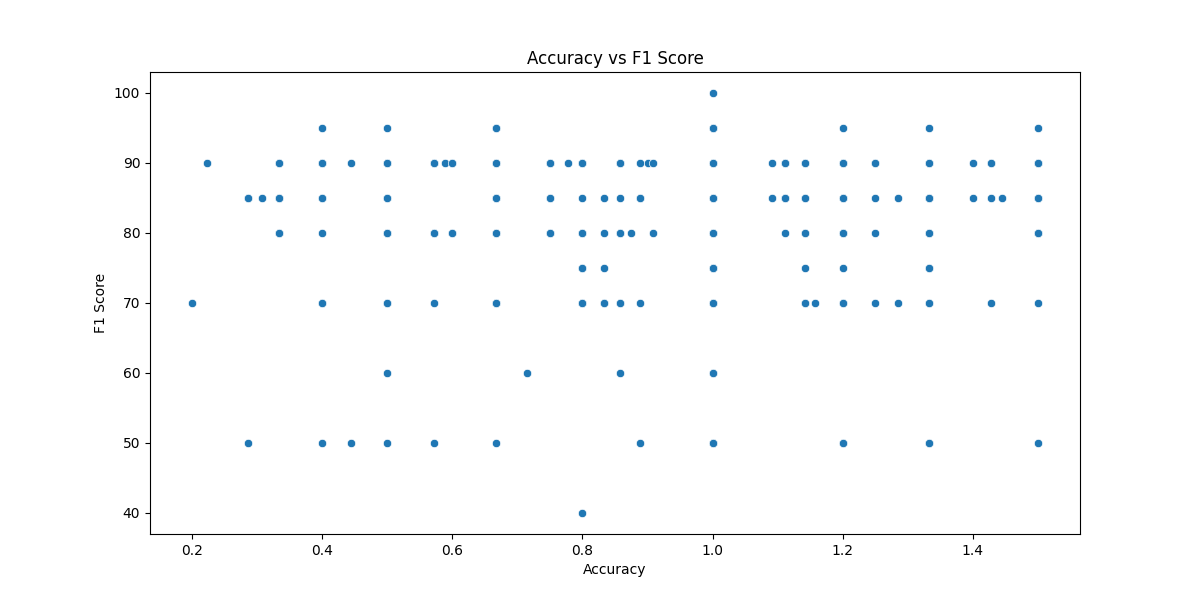
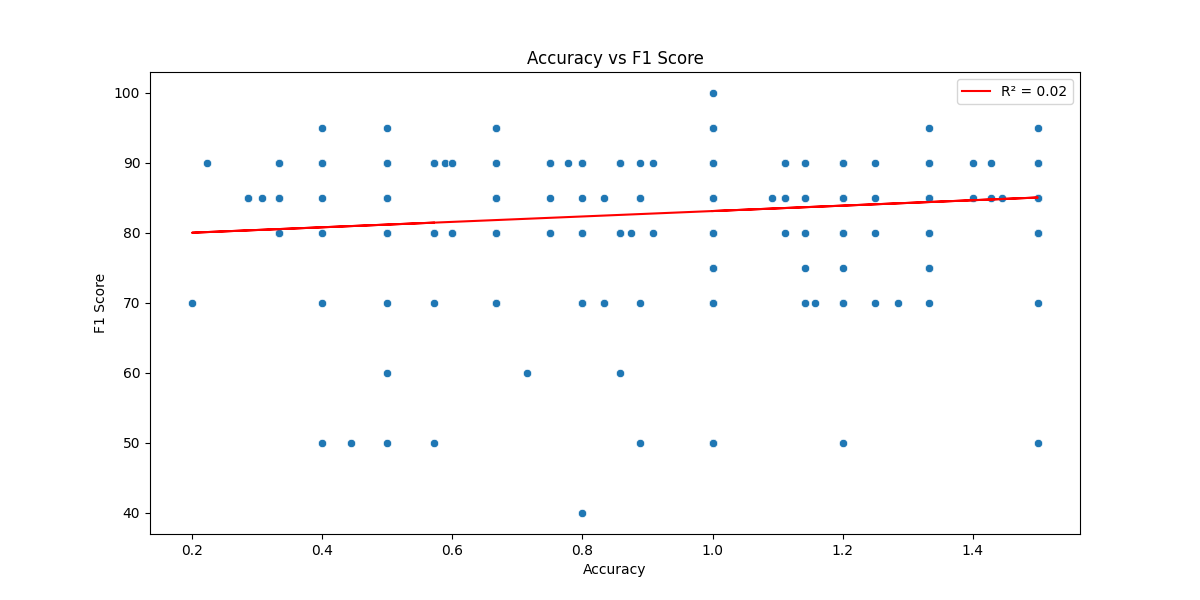
asqa gpt metrics

Changed region(s): [[0.4933, 0.33, 0.8633, 0.36], [0.1542, 0.36, 0.4933, 0.39], [0.8017, 0.12, 0.8942, 0.18]]

diff --git a/metrics.py b/metrics.py
@@ -56,54 +56,52 @@ class Metrics:
         if not self.data:
             raise ValueError("Data not loaded or metrics not calculated. Please load data and calculate metrics first.")
 
-        df = pd.DataFrame(self.data)
+        # Prepare the dataframe, filtering out unnecessary data
+        df = pd.DataFrame(self.data).dropna(subset=['f1_score', 'rouge_score', 'correctness', 'average_relevance_score', 'relevance', 'accuracy'])
         df_non_zero_f1 = df[df['f1_score'] > 0]  # Filter out entries with F1 score of 0
 
-        # Define colors for the plots
-        color_palette = sns.color_palette("husl", 5)
+        # Check if there's any data left after filtering
+        if df_non_zero_f1.empty:
+            print("No valid data available for plotting.")
+            return
 
-        # Function to plot regression line and calculate R^2
-        def plot_regression(x, y, data, ax):
-            model = LinearRegression().fit(data[[x]], data[y])
-            predictions = model.predict(data[[x]])
-            ax.plot(data[x], predictions, color='red', label=f'R² = {r2_score(data[y], predictions):.2f}')
-            ax.legend()
+        # Generate and save each plot
+        self.create_plot('rouge_score', 'correctness', df_non_zero_f1, 'Rouge Score vs Correctness Score', 'Rouge Score', 'Correctness Confidence', 'rouge_correct.png')
+        self.create_plot('average_relevance_score', 'relevance', df_non_zero_f1, 'Average Relevance Score vs Relevance', 'Average Given Relevance Score', 'Relevance Confidence', 'relevance.png')
+        self.create_plot('f1_score', 'accuracy', df_non_zero_f1, 'Accuracy vs F1 Score', 'Accuracy', 'F1 Score', 'f1_accuracy.png')
 
-        # Rouge Score vs Correctness Score
+
+    # Define a function to plot regression line and calculate R^2
+    def plot_regression(self, x, y, data, ax):
+        if data.empty or len(data[x].dropna()) == 0 or len(data[y].dropna()) == 0:
+            print("Data for regression is empty or NaN.")
+            return  # Exit if there is no data to plot
+
+        # Prepare data: remove any NaN values that may interfere with regression calculation
+        data = data.dropna(subset=[x, y])
+        
+        model = LinearRegression()
+        X = data[[x]]  # Feature matrix
+        y_true = data[y]  # Target vector
+        model.fit(X, y_true)
+        predictions = model.predict(X)
+        
+        # Plotting the regression line
+        ax.plot(data[x], predictions, color='red', label=f'R² = {r2_score(y_true, predictions):.2f}')
+        ax.legend()
+
+    def create_plot(self, x, y, data, title, xlabel, ylabel, filename):
         fig, ax = plt.subplots(figsize=(12, 6))
-        sns.scatterplot(x='rouge_score', y='correctness', data=df_non_zero_f1, ax=ax, palette=color_palette)
-        plot_regression('rouge_score', 'correctness', df_non_zero_f1, ax)
-        ax.set_title('Rouge Score vs Correctness Score')
-        ax.set_xlabel('Rouge Score')
-        ax.set_ylabel('Correctness Confidence')
-        ax.set_xlim(left=0)
-        ax.set_ylim(bottom=0)
-        plt.savefig(os.path.join(self.output_dir, 'rouge_correct.png'))
+        sns.scatterplot(x=x, y=y, data=data, ax=ax)
+        self.plot_regression(x, y, data, ax)  # This calls the regression line plotting
+        ax.set_title(title)
+        ax.set_xlabel(xlabel)
+        ax.set_ylabel(ylabel)
+        # ax.set_xlim(left=0)  # Comment out or remove this line
+        # ax.set_ylim(bottom=0)  # Comment out or remove this line
+        plt.savefig(os.path.join(self.output_dir, filename))
         plt.show()
 
-        # Average Relevance Score vs Relevance
-        fig, ax = plt.subplots(figsize=(12, 6))
-        sns.scatterplot(x='average_relevance_score', y='relevance', data=df_non_zero_f1, ax=ax, palette=color_palette)
-        plot_regression('average_relevance_score', 'relevance', df_non_zero_f1, ax)
-        ax.set_title('Average Relevance Score vs Relevance Confidence')
-        ax.set_xlabel('Average Given Relevance Score')
-        ax.set_ylabel('Relevance Confidence')
-        ax.set_xlim(left=0)
-        ax.set_ylim(bottom=0)
-        plt.savefig(os.path.join(self.output_dir, 'relevance.png'))
-        plt.show()
-
-        # Accuracy vs F1 Score
-        fig, ax = plt.subplots(figsize=(12, 6))
-        sns.scatterplot(x='f1_score', y='accuracy', data=df_non_zero_f1, ax=ax, palette=color_palette)
-        plot_regression('f1_score', 'accuracy', df_non_zero_f1, ax)
-        ax.set_title('Accuracy vs F1 Score')
-        ax.set_xlabel('Accuracy')
-        ax.set_ylabel('F1 Score')
-        ax.set_xlim(left=0)
-        ax.set_ylim(bottom=0)
-        plt.savefig(os.path.join(self.output_dir, 'f1_accuracy.png'))
-        plt.show()
 
 
 def main():
